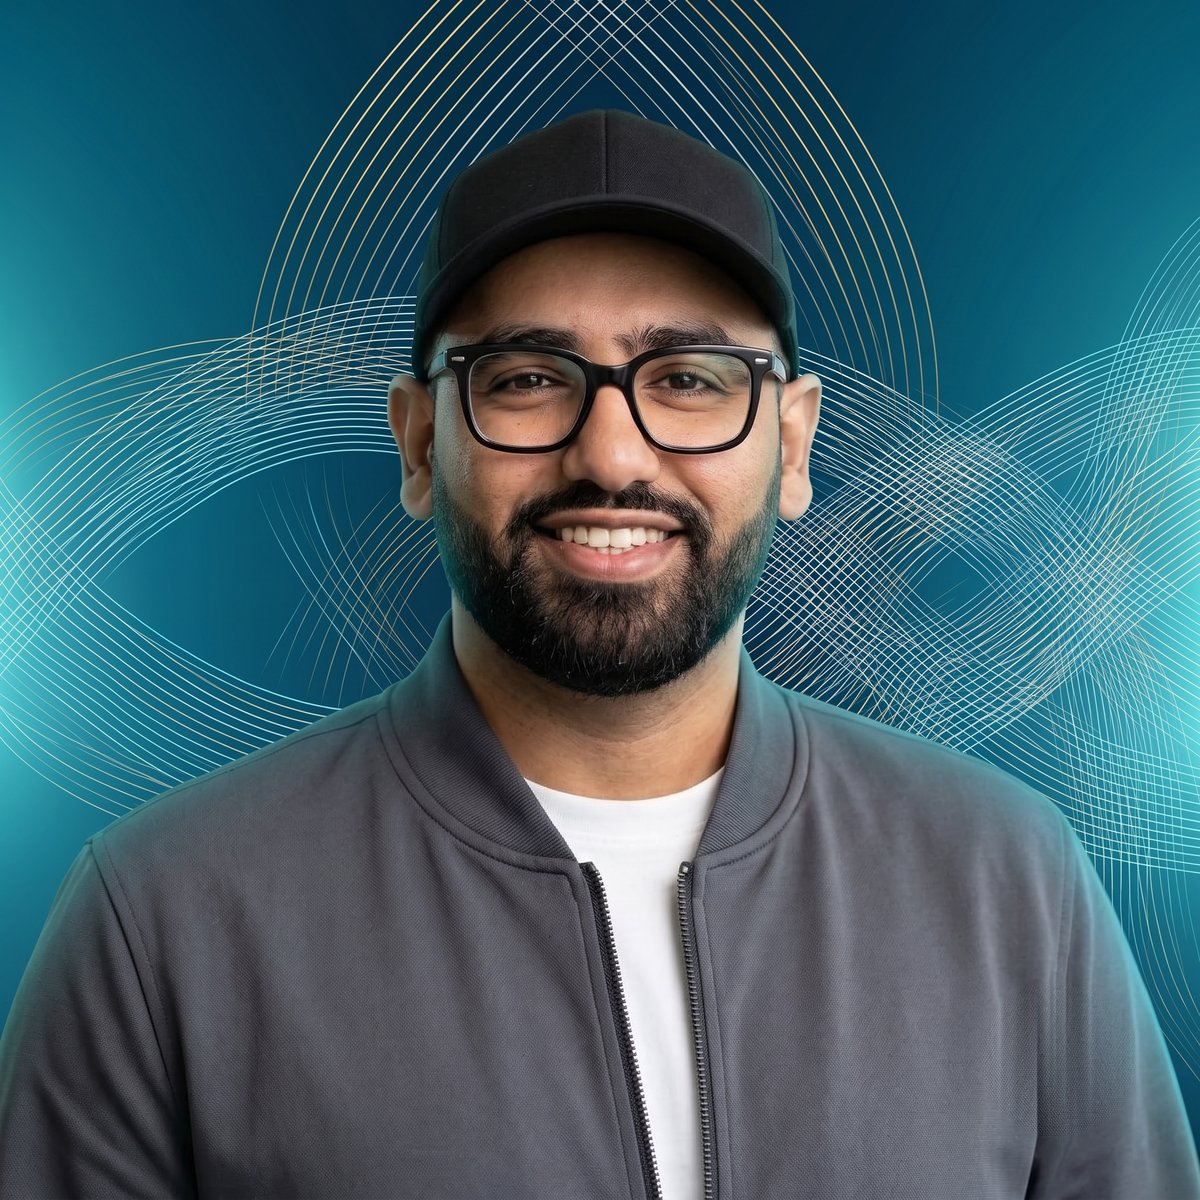
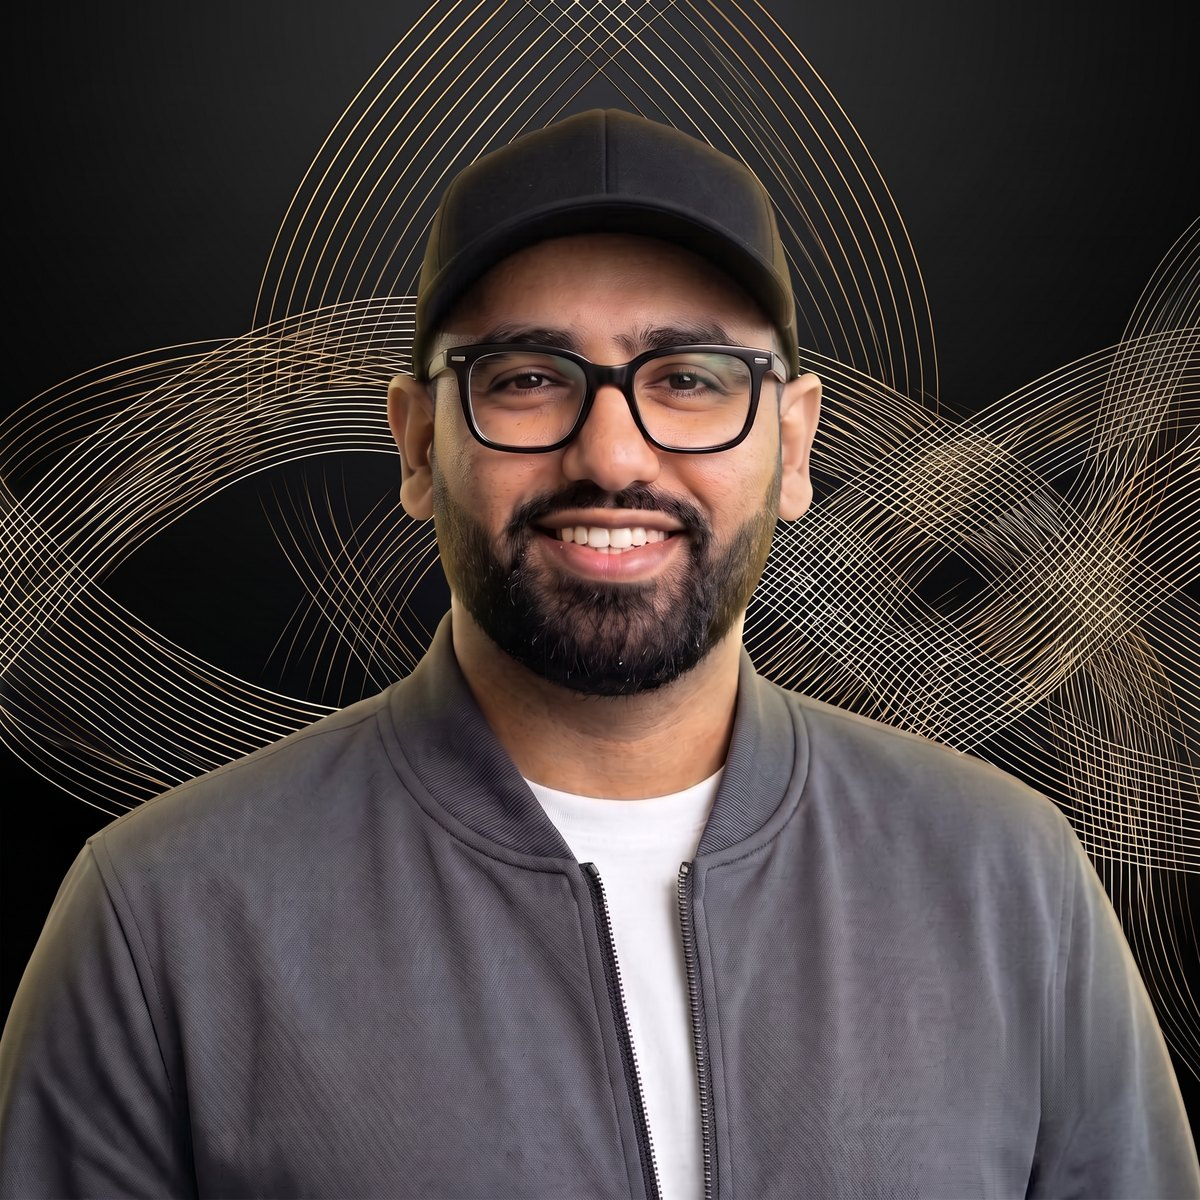
Replace portrait and weave band with new black-gold images
Swaps in the reworked black-and-gold portrait (hero + About, same
positions) and the reworked gold weave banner (section dividers),
matching the current theme. Removed the AI-sparkle watermark from
both at full resolution — the portrait's jacket fold is reconstructed
by vertical shading interpolation plus cloned fabric grain and
feather-blended; the banner sparkle is cleared with a feathered fill
sampled from the surrounding black. Source PNGs replaced in the deploy
by optimized JPEGs (portrait 355KB, band 257KB). No text or layout
changes.

diff --git a/css/styles.css b/css/styles.css
@@ -627,7 +627,7 @@ section { position: relative; }
 
 .weave-divider {
   height: clamp(90px, 11vw, 150px);
-  background: url('../assets/weave-band.svg') center / cover no-repeat;
+  background: url('../assets/weave-band.jpg') center / cover no-repeat;
 }
 
 .marquee {